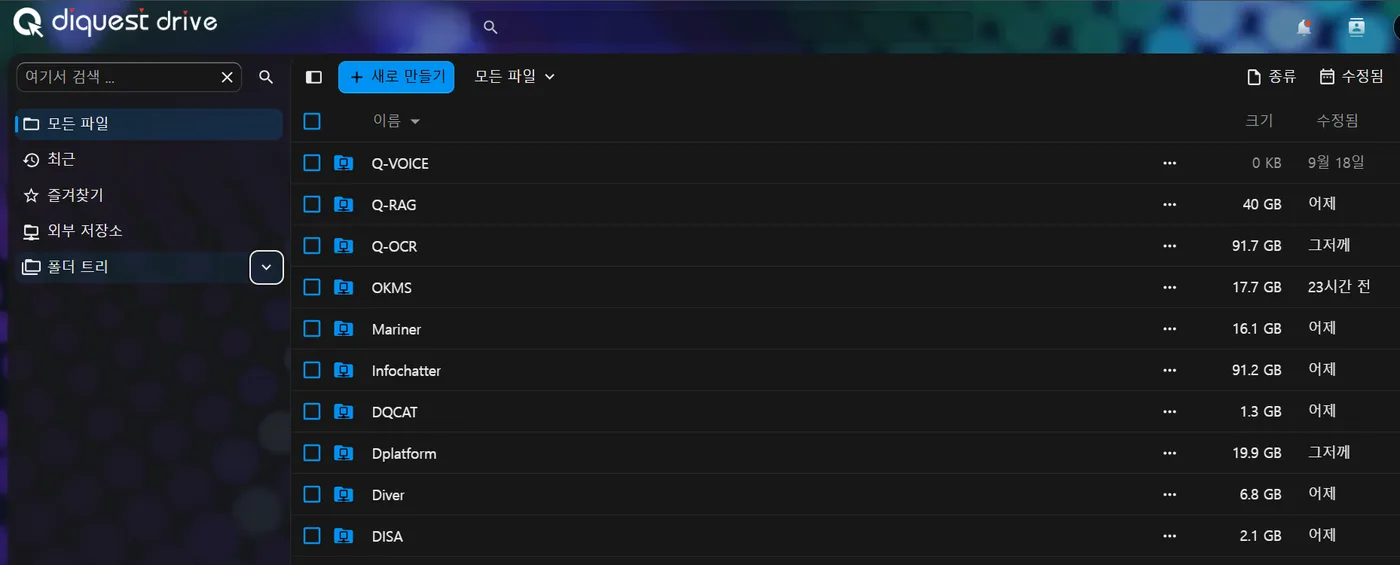
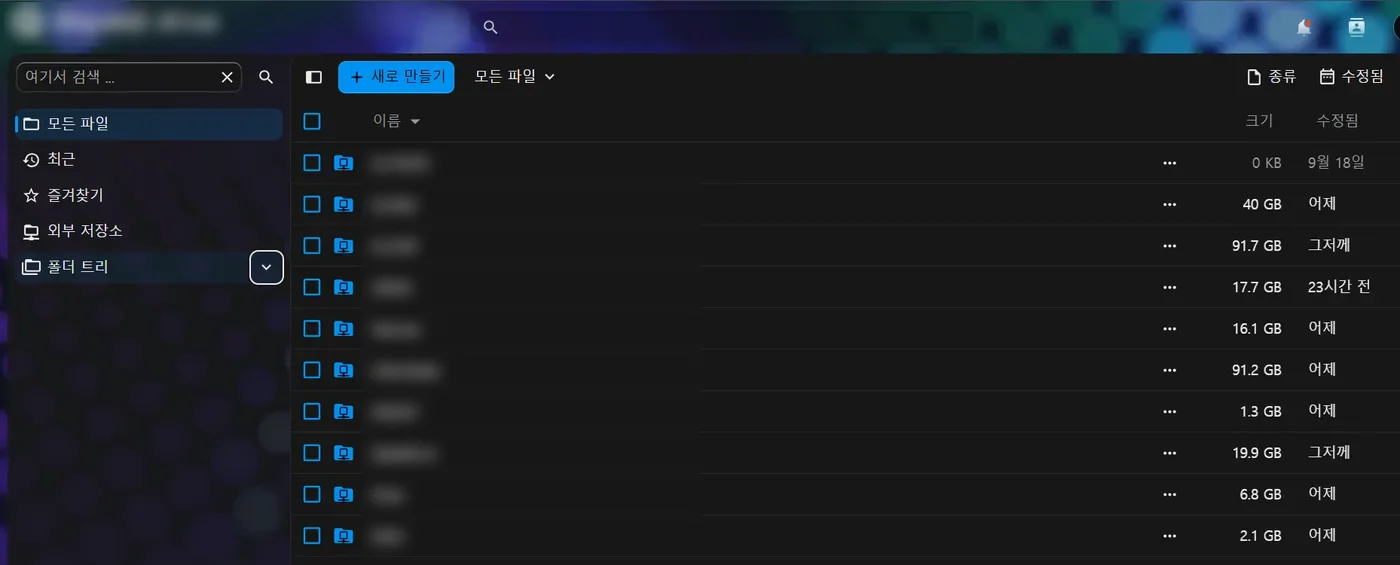
Blur drive/Nexus names, regional emojis for branches, soften wording
Claude-Session: https://claude.ai/code/session_018bwKJE3hsX9odTwN2cSXRA

diff --git a/pf_naraspace.html b/pf_naraspace.html
@@ -1051,6 +1051,10 @@
         @media (max-width: 900px) { .np-co { grid-template-columns: 1fr; } }
         .mx-card .dt { font-size: .7rem; font-weight: 700; color: #dff8f6; background: rgba(60,211,204,.12); border: 1px solid rgba(60,211,204,.4); border-radius: 999px; padding: 1px 8px; }
         .np-tag .d { opacity: .8; font-weight: 600; margin-left: 6px; }
+        .branches > div b { font-size: 1.6rem; line-height: 1.2; margin-bottom: 4px; }
+        .branches > div b.sm { font-size: 1.15rem; letter-spacing: -2px; }
+        .branches > div.big b { font-size: 2.4rem; }
+        .branches > div.big { border-color: rgba(185,178,222,.5); }
 
     </style>
 </head>
@@ -1222,7 +1226,7 @@
             <div class="card expandable press np-case" data-target="ldap-modal" tabindex="0" role="button">
                 <span class="np-tag">👥 통합계정(LDAP) 관리<span class="d">2026.10</span></span>
                 <h3>현 근무자 기준으로 정비, 129명 비활성화</h3>
-                <p class="np-flow"><b>정비</b>퇴사자·미사용 129명 <i>+</i> <b>강제</b>초기 비밀번호 변경 <i>+</i> <b>차단</b>관리자 페이지 내부망 전용</p>
+                <p class="np-flow"><b>정비</b>퇴사자·미사용 129명 <i>+</i> <b>필수</b>초기 비밀번호 변경 <i>+</i> <b>차단</b>관리자 페이지 내부망 전용</p>
                 <span class="np-more">과정 보기 →</span>
             </div>
         </div>
@@ -1693,7 +1697,7 @@
         <p class="modal-meta"><span class="when">2026.10</span>다이퀘스트 · 포털·드라이브·VPN·모니터링이 같은 계정을 쓰는 기반</p>
         <div class="kpi-row">
             <div class="kpi-card"><div class="kpi-num count-num" data-suffix="명" data-target="129">0명</div><div class="kpi-label">퇴사자·미사용 계정<br>비활성화 (삭제 없음)</div></div>
-            <div class="kpi-card"><div class="kpi-num">🔑 강제</div><div class="kpi-label">초기 비밀번호<br>첫 접속 시 변경</div></div>
+            <div class="kpi-card"><div class="kpi-num">🔑 필수</div><div class="kpi-label">초기 비밀번호<br>첫 접속 시 변경</div></div>
             <div class="kpi-card"><div class="kpi-num">🏢 내부망</div><div class="kpi-label">관리자 페이지<br>접속 범위</div></div>
         </div>
         <div class="viz-sec-label">정비 순서</div>
@@ -1701,7 +1705,7 @@
             <div class="flow-step"><div class="flow-icon">👻</div><div class="flow-title">문제</div><div class="flow-desc">퇴사자 정리 안 됨, 고객사 계정과 섞임</div></div>
             <div class="flow-step"><div class="flow-icon">🏢</div><div class="flow-title">기준</div><div class="flow-desc">현 근무자·조직도 기준으로 정리</div></div>
             <div class="flow-step"><div class="flow-icon">🚫</div><div class="flow-title">비활성화</div><div class="flow-desc">129명, 기록은 남기고 로그인만 막음</div></div>
-            <div class="flow-step"><div class="flow-icon">🔑</div><div class="flow-title">초기 비밀번호</div><div class="flow-desc">포털 첫 접속 때 강제 변경</div></div>
+            <div class="flow-step"><div class="flow-icon">🔑</div><div class="flow-title">초기 비밀번호</div><div class="flow-desc">포털 첫 접속 때 변경 필수</div></div>
             <div class="flow-step"><div class="flow-icon">🔒</div><div class="flow-title">관리자 보호</div><div class="flow-desc">PHP 취약점 노출 → 내부망 전용</div></div>
         </div>
         <div class="topo">
@@ -1776,8 +1780,8 @@
         <div class="viz-sec-label">산출물 · 본사와 7개 지점 사무실 레이아웃</div>
         <div class="branches">
             <div class="hq">🏢 본사 레이아웃 · 이전·부서 이동 때마다 갱신</div>
-            <div><b>📍</b>서울</div><div><b>📍</b>김포</div><div><b>📍</b>인천</div><div><b>📍</b>군산</div>
-            <div><b>📍</b>청주</div><div><b>📍</b>김해</div><div><b>📍</b>제주</div><div class="air"><b>🛂</b>공항 보안구역</div>
+            <div><b>🏯</b>서울</div><div><b class="sm">⛰✈🌊</b>김포</div><div class="big"><b>🛫</b>인천</div><div><b>⚓</b>군산</div>
+            <div><b>🌾</b>청주</div><div><b class="sm">🐦🌊</b>김해</div><div><b>🗿</b>제주</div><div class="air"><b>🛂</b>공항 보안구역</div>
         </div>
         <div class="result-badge"><div class="dot"></div>지방 지점은 직접 가기 어려워, 공사나 장애 때 이 레이아웃을 업체와 같이 보며 위치와 경로를 맞췄습니다. 공항 보안구역 안 사무실도 출입 절차를 거쳐 직접 다녔습니다. 다이퀘스트 포털의 사무실 배치도도 같은 생각에서 만들었습니다.</div>
         <div class="kpi-row" style="margin-top:14px">
@@ -2305,7 +2309,7 @@
             { co: G, e: '💸', b: '상장 의료기업 IT 운영 체계화', p: '협업툴·원격툴 해지와 그룹웨어 통합, 백업 비용 1/3, AI 라이선스 30%↓', m: 'cost-modal' },
             { co: S, d: '상시', e: '👷', b: '공사 현장 입회 · 7개 지점 레이아웃', p: '포설 경로·공항 전용망 확인, 방치 공유기 점검, 공항 보안구역까지 현장 지원', m: 'site-modal' } ] },
         { t: '계정·권한·백업, SSO/MFA 등 시스템 접근 통제 운영', c: [
-            { co: D, d: '2026.10', e: '👥', b: '통합계정(LDAP) 관리', p: '퇴사자·미사용 129명 비활성화, 초기 비밀번호 강제 변경, 관리자 페이지 내부망 전용', m: 'ldap-modal' },
+            { co: D, d: '2026.10', e: '👥', b: '통합계정(LDAP) 관리', p: '퇴사자·미사용 129명 비활성화, 초기 비밀번호 변경 필수, 관리자 페이지 내부망 전용', m: 'ldap-modal' },
             { co: G, d: '상시', e: '🛂', b: 'NAC · DLP · DRM 운영과 계정 재편', p: '지니언스·에스원·DocuONE, 퇴사자·휴직자 정리, NAC 전 직원 재설정, NetBackup', m: 'sol-modal', tag: '우대 · 보안 솔루션 운영' },
             { co: U, e: '🛡', b: '(가)급 폐쇄망 DML 마스터 관리자', p: '메일 전송 승인, 공문 관리, 방문 신청까지 승인 체계 운영', m: 'audit-modal' } ] },
         { t: '보안 패치, 취약점 점검 및 개선 활동', c: [

diff --git a/pf_portal.html b/pf_portal.html
@@ -1051,6 +1051,10 @@
         @media (max-width: 900px) { .np-co { grid-template-columns: 1fr; } }
         .mx-card .dt { font-size: .7rem; font-weight: 700; color: #dff8f6; background: rgba(60,211,204,.12); border: 1px solid rgba(60,211,204,.4); border-radius: 999px; padding: 1px 8px; }
         .np-tag .d { opacity: .8; font-weight: 600; margin-left: 6px; }
+        .branches > div b { font-size: 1.6rem; line-height: 1.2; margin-bottom: 4px; }
+        .branches > div b.sm { font-size: 1.15rem; letter-spacing: -2px; }
+        .branches > div.big b { font-size: 2.4rem; }
+        .branches > div.big { border-color: rgba(185,178,222,.5); }
 
 
         /* ===================== portal page ===================== */
